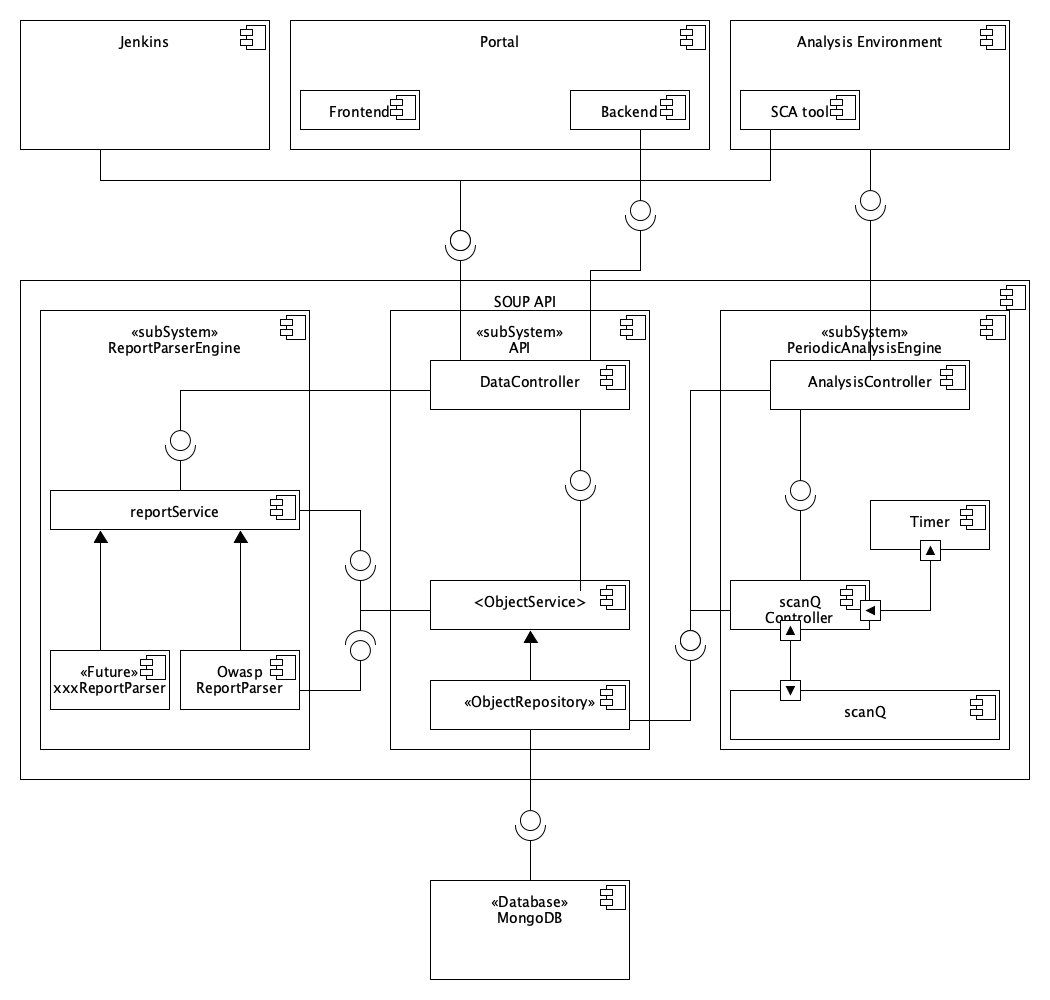
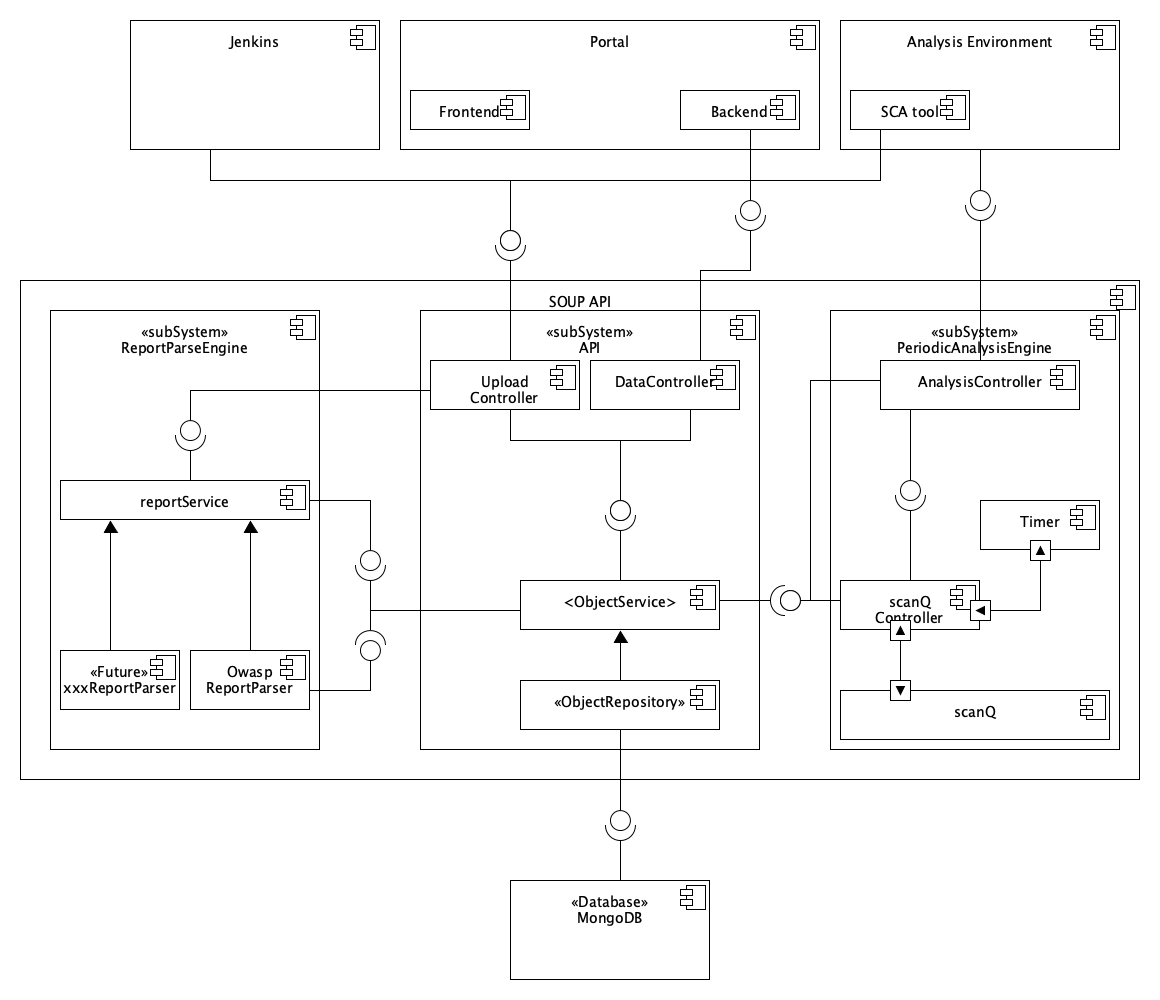
Architetuur nagekeken.....

diff --git a/Chapters/0302-Architectuur.tex b/Chapters/0302-Architectuur.tex
@@ -19,7 +19,7 @@ Het interne datamodel is opgebouwd op basis van de data die wordt verkregen van 
     \myfloatalign
     \includegraphics[width=12cm]{gfx/SOUPAPI-SOUPAPI DM}
     \caption{Intern Datamodel}
-    \label{fig:SOUP-SoupApiDm}
+    \label{fig:SOUP-SoupApiDm [CHECKEN]}
 \end{figure}
 
 Hieronder wordt iedere entiteit beschreven met daarin het attribuut, het datatype en de reden voor het opslaan van deze data, waarbij geldt dat voor iedere entititeit de volgende attributen standaard zijn \_id, \_createdAt en \_updatedAt opgeslagen.
@@ -136,9 +136,9 @@ Om op een later stadium een periodieke analyse te kunnen doen worden de dependen
 \end{tabular}
 
 \subsection{Portal Datamodel}\label{subsec:portal-datamodel}
-Om de mogelijkheid te hebben om een samenvatting te verkrijgen over kwetsbaarheden per project, per module moet er in de portal een aantal etiteiten worden toegevoegd. Het ontwerp dat hier getoont is is dan ook een toevoeging op het bestaande model en zal dan ook niet in het geheel getoont worden maar alleen de aangegrenzende entiteiten en de aanpassingen hierop.
+Om over de mogelijkheid te beschikken om een samenvatting te verkrijgen over kwetsbaarheden per project en per module moet er in de portal een aantal entiteiten worden toegevoegd. Het ontwerp dat hier getoont is een toevoeging op het bestaande model en wordt niet in zijn geheel getoont, maar enkel de aangegrenzende entiteiten en de aanpassingen hierop.
 
-Voor de functionaliteit van de SOUP module binnen de portal moeten er twee entiteiten worden toegevoegd namelijk $'$Module$'$ voor het weergeven van module data in projecten en $'$VulnerabilitySummary$'$ waarin de de waarde worden opgeslagen die weergegeven worden in de portal. De keuze om deze gegevens toe te voegen in het datamodel van de Portal is performance. Vaak is het alleen van belang om de samenvatting te kunnen lezen en op het moment dat er teveel kwetsbaarheden gevonden worden kan er naar de details in de SOUPAPI worden gekeken. Om deze reden is het niet nodig om alle beschikbare info over te sturen gezien het in het geval van npm vaak in de honderden dependencies kan leiden.
+Voor de functionaliteit van de SOUP module binnen de portal moeten er twee entiteiten worden toegevoegd namelijk $'$Module$'$ voor het weergeven van module data in projecten en $'$VulnerabilitySummary$'$ waarin de de waarden worden opgeslagen die weergegeven worden in de portal. De keuze om deze gegevens toe te voegen in het datamodel van de Portal is performance. Vaak is het alleen van belang om de samenvatting te kunnen lezen en op het moment dat er teveel kwetsbaarheden gevonden worden kan er naar de details in de SOUPAPI worden gekeken. Om deze reden is het niet nodig om alle beschikbare info over te sturen gezien het in het geval van NPM vaak tot honderden dependencies kan leiden.
 
 
 \begin{figure}[bth]
@@ -149,7 +149,7 @@ Voor de functionaliteit van de SOUP module binnen de portal moeten er twee entit
 \end{figure}
 
 \subsubsection{Project}\label{subsubsec:portalProject}
-Dit is een bestaande entiteit binnen het huidige portal project. Hierin worden de gegevens opgeslagen die te maken hebben met de projecten die binnen Eaglescience bestaan. Dit zijn zowel Draft(nieuwe), active, en archived projecten.
+Dit is een bestaande entiteit binnen het huidige portal project. Hierin worden de gegevens opgeslagen die te maken hebben met de projecten die binnen Eaglescience bestaan. Dit zijn zowel Draft (nieuwe), active, en archived projecten.
 
 \begin{tabular}{lll}
     \textbf{Attribuut} & \textbf{Datatype} & \textbf{Notitie}\\
@@ -157,63 +157,61 @@ Dit is een bestaande entiteit binnen het huidige portal project. Hierin worden d
     status & ProjectStatus & [enum] status van het project\\
     customers & String & projectklant\\
     path & Option[String] & projectPath\\
-    description & Option[String] & Bschrijving van het project\\
+    description & Option[String] & beschrijving van het project\\
     creationDate & Date & aanmaakdatum van het project \\
-    users & List[ProjectUser] & EagleScience medewerkers op het project \\ %TODO AAngepast
+    users & List[ProjectUser] & Eaglescience medewerkers op het project \\
     workType & Option[WorkTypeType] & welk werk is er belegt in het project   \\
-    ldapGroupDns & Option[List[String]] & Welke group heeft het project in LDAP  \\
+    ldapGroupDns & Option[List[String]] & welke group heeft het project in LDAP  \\
     modules & Option[List[String]] & referentie naar de aanwezige modules  \\
 \end{tabular}
 
 \subsubsection{Module}\label{subsubsec:portalModule}
-De module entiteit slaat de gegevens op voor een specifieke module. met een referentie naar een lijst van samenvatingen.
+De module entiteit slaat de gegevens op voor een specifieke module, met een referentie naar een lijst van samenvattingen.
 
 \begin{tabular}{lll}
     \textbf{Attribuut} & \textbf{Datatype} & \textbf{Notitie}\\
     moduleId & ModuleId > Long & uniek id \\
-    name & String & Referentie naar Project\\
+    name & String & referentie naar Project\\
     platform & String & gebruikte platform \\
     platformversion & String & versie van Node  \\
-    framework & version & String & versie van NPM  \\
-    frameworkVersion & String & versie van Version  \\
-    declairedDepAmnt & Int & Aantal opgegeven dependencies\\
-    totaalDepAmnt & Int & Totaal aantal dependencies.\\
-    vulSummaries & Option[List[VulSumId]]& referentie naar Samenvatting\\
+    framework & String &  gebruikte framework  \\
+    frameworkVersion & String & versie van framework  \\
+    declairedDepAmnt & Int & aantal opgegeven dependencies\\
+    totaalDepAmnt & Int & totaal aantal dependencies\\
+    vulSummaries & Option[List[VulSumId]]& referentie naar samenvatting\\
 \end{tabular}
 
-\subsubsection{VulnerabilitySummary}\label{subsubsec:portalVulSum}
-Iedere moment dat er een analyse is uitgevoerd wordt er hier een samenvating aan toegevoegd
+\subsubsection{Vulnerability Summary}\label{subsubsec:portalVulSum}
+Ieder moment dat er een analyse is uitgevoerd wordt er hier een samenvating aan toegevoegd, zodat er een up to date samenvatting beschikbaar is voor de portal evenals de geschiedenis hiervan.
 
 \begin{tabular}{lll}
     \textbf{Attribuut} & \textbf{Datatype} & \textbf{Notitie}\\
     vulSummaryId & VulSumId > Long & uniek Id\\
     timeStamp & DataTime & moment van opslaan van de samenvating\\
     details & String & referentie naar SOUPAPI model analyse\\
-    severAmount & Int & aantal severe kwetsbaarheden\\
+    severeAmount & Int & aantal Severe kwetsbaarheden\\
     highAmount & Int & aantal High kwetsbaarheden\\
     mediumAmount & Int & aantal Medium kwetsbaarheden\\
     lowAmount & Int & aantal Low kwetsbaarheden\\
 \end{tabular}
 
 \section{Algemene Architectuur}\label{sec:algemene-architectuur}
-%TODO checken of 8pt leesbaar is op print
 %TODO tekst beter structureren
 
-Voor het analyseren, beheren en weergeven van een SOUP-analyse heeft de applicatie een aantal componenten nodig die elk een eigen verantwoordelijkheid hebben in de taken die de applicatie uit moet voeren. Om de verantwoordelijkheden te splitsen is de applicatie opgesplitst in verschillende modulen. Voor sommige onderdelen geldt zelfs dat weer een onderdeel in van een andere applicatie binnen de Eaglescience Dev-stack. Voor een volledige compatibiliteit wordt de applicatie in Scala geschreven waarbij het PlayFramework wordt gebruikt. Voor Frontend delen en dan met name wordt er gebruik gemaakt van de huidige portal wat dicteert dat Angular gebruikt gaat worden voor de ontwikkeling hiervan.
-
-
+Voor het analyseren, beheren en weergeven van een SOUP-analyse heeft de applicatie een aantal componenten nodig die elk een eigen verantwoordelijkheid hebben in de taken die de applicatie uit moet voeren. Om deze verantwoordelijkheden te splitsen is de applicatie opgesplitst in verschillende modulen. Voor sommige onderdelen geldt zelfs dat het zelf een onderdeel is van een andere applicatie binnen de Eaglescience Dev-stack. Voor een volledige compatibiliteit wordt de applicatie in Scala geschreven waarbij het PlayFramework wordt gebruikt. Voor Frontend delen en dan met name in de portal wordt er Angular gebruikt, omdat dit hier al gebruikt wordt. Zoals te zien is in figuur~\ref{fig:SOUP-Components} zijn er verschillende componenten die samen werken om een analyse weer te geven voor de gebruiker.
 \begin{figure}[bth]
     \myfloatalign
     \includegraphics[width=10cm]{gfx/umlet/exports/ApplicationComponents}
     \caption{Componenten SOUP Analyse Systeem}
     \label{fig:SOUP-Components}
 \end{figure}
-Zoals te zien is in figuur~\ref{fig:SOUP-Components} zijn er verschillende componenten die samen werken om een analyse weer te geven voor de gebruiker. \textbf{Jenkins} is verantwoordelijk voor het up-to-date houden van de laatste wijzigingen in de sourde-code en het initiele rapport. Welke aangeboden wordt aan de \textbf{SOUP-API}. Waarin de  \textbf{ReportParserEngine} verantwoordelijk is voor het omzetten van de binnegekomen rapporten naar het interne datamodel en het opslaan van de dependency declaraties. De \textbf{PeriodicAnalysisEngine} is verantwoordelijk voor het doen van periodieke analyses met de dependency declaraties. Centraal in de SOUP-API staat de \textbf{API} welke verantwoordelijk is voor de dataverwerking van de data die door de beide engines gegenereerd wordt of benodigd is. De \textbf{Portal} is verantwoordelijk voor de user interface met de gebruiker en de SOUP-API. Voor het periodiek kunnen analyseren van de modules binnen projecten is er een \textbf{AnalysisEnvironment} welke zorg draagt voor het veilig kunnen analyseren van modules op basis van de laatst opgeslagen dependencyDeclaraties. Als \textbf{Database} is MongoDB gekozen omdat er wisselingen in content kan zitten in de uitslagen en om deze reden en flexibelere manier van opslaan vereist is.
 
-In de komende secties zal er dieper ingegaan worden op de verschillende componten waardoor er een completer beeld onstaat. Functionele ontwerpen zullen worden aangeboden in de hierop volgende hoofdstukken.
+\textbf{Jenkins} is verantwoordelijk voor het up-to-date houden van de laatste wijzigingen in de sourde-code en het initiele rapport, welke aangeboden wordt aan de \textbf{SOUP-API}. Hierin is de  \textbf{ReportParserEngine} verantwoordelijk voor het omzetten van de binnegekomen rapporten naar het interne datamodel. De \textbf{PeriodicAnalysisEngine} is verantwoordelijk voor het doen van periodieke analyses met de dependency declaraties. Centraal in de SOUP-API staat de \textbf{API} welke verantwoordelijk is voor de dataverwerking van de data die door de beide engines gegenereerd of benodigd is. Daarnaast is het verantwoordelijk voor het opslaan van de dependency declaraties. De \textbf{Portal} is verantwoordelijk voor de user interface met de gebruiker en de SOUP-API. Voor periodieke analyse van de modules binnen projecten is er een \textbf{AnalysisEnvironment} welke zorg draagt voor de veilige analyse van modules op basis van de laatst opgeslagen dependencyDeclaraties. Als \textbf{Database} is MongoDB gekozen omdat er wisselingen in content kan zitten van de uitslagen en dit een flexibelere manier van opslaan vereist is.
+
+In de komende secties zal er dieper ingegaan worden op de verschillende componten waardoor er een completer beeld hierover onstaat. Functionele ontwerpen zullen worden aangeboden in de hierop volgende hoofdstukken.
 
 \section{SOUP API}\label{sec:soup-api}
-De SOUP-API is een opzichzelf staand centraal deel van de applicatie dat verantwoordelijk is voor de verwerking van gegevens uit de SCA tooling en de portal. Als ook het regelen van de periodieke analyses om informatie up-to-date te houden van al eerder geanalyseerde projecten waar al een tijd geen wijzigingen op zijn geweest. Deze verantwoordelijkheden worden door de volgende componenten beheert
+De SOUP-API is een opzichzelf staand centraal deel van de applicatie welke verantwoordelijk is voor de verwerking van gegevens uit de SCA tooling en de portal. Hiernaast regelt het ook de periodieke analyses om informatie up-to-date te houden van al eerder geanalyseerde projecten waar al een tijd geen wijzigingen op zijn geweest. Deze verantwoordelijkheden worden door de volgende componenten beheert:
 
 \subsection{ReportParseEngine}\label{subsec:reportparseengine}
 De ReportParseEngine zorgt ervoor dat de binnenkomende datastroom vanuit de SCA tooling wordt verwerkt tot gegevens die in de SOAP-API gebruikt kan worden om inzichten in kwetsbaarheden te verkrijgen.
@@ -225,14 +223,14 @@ De ReportParseEngine zorgt ervoor dat de binnenkomende datastroom vanuit de SCA 
     \label{fig:SOUPAPIReportParserComps}
 \end{figure}
 
-De datastroom die binnenkomt bestaat uit een aantal zaken. Ten eerste is er het rapport dat uit de SCA tooling komt dat omgezet moet worden naar het intene datamodel. Daarnaast komen er vanuit het Jenkins process een aantal dependency declaraties mee die het mogelijk maken om in een later stadium de modules opnieuw te analyseren op kwetsbaarheden. Als laatst zal er metadata worden verstuurt die de API gebruikt om de analyses op de juiste plek op te slaan. Om de verantwoordelijkheden goed te verdelen zijn er een aantal services voorzien.
+De datastroom die binnen komt bestaat uit een aantal zaken. Ten eerste is er het rapport dat uit de SCA tooling komt dat omgezet moet worden naar het intene datamodel. Ten tweede zal er metadata worden verstuurt die de API gebruikt om de analyses op de juiste plek op te slaan. Om de verantwoordelijkheden goed te verdelen zijn er een aantal services voorzien:
 
-De \textbf{ParserService} is het centrale aanspreek punt van de ReportParserEngine en heeft als taak dat de juiste functionaliteit wordt aangesproken op het moment dat bepaalde vormen van instroom data wordt aangeboden. De ReportParserEngine moet de mogelijkheid hebben om in de toekomst met meer SCA tools op te kunnen gaan. De verwachting is dat niet iedere tool de zelfde opmaak van het rapport heeft en er om die redenen meerdere parsers moeten worden ontwikkeld in figuur ~\ref{fig:ReportParserComponents} staat deze aangegeven als $"$FutureParser$"$.
+De \textbf{ParserService} is het centrale aanspreek punt van de ReportParseEngine en heeft als taak dat de juiste functionaliteit wordt aangesproken op het moment dat bepaalde vormen van instroom data worden aangeboden. De ReportParseEngine moet de mogelijkheid hebben om in de toekomst met meer SCA tools om te kunnen gaan. De verwachting is dat niet iedere tool dezelfde opmaak van het rapport heeft en er om die redenen meerdere parsers moeten worden ontwikkeld in figuur~\ref{fig:SOUPAPIReportParserComps} staat deze aangegeven als $"$FutureParser$"$.
 
-De \textbf{OWASP Parser} maakt het mogelijk om het rapport dat gegegeven wordt door in het hiervoor beschreven onderzoek geselecteerde SCA tool om te zetten naar data in de database. Naast het plaatsen van de data in de interne database genereert het ook een samenvating die in database van de portal wordt geplaatst.
+De \textbf{OWASP Parser} maakt het mogelijk om het rapport dat gegenereerd wordt door de OWASP tool \footnote{tooling die is voortgekomen uit het hiervoor beschreven onderzoek} om te zetten naar data in de database. Naast het plaatsen van de data in de interne database genereert het ook een samenvatting die in database van de portal wordt geplaatst.
 
 \subsection{Periodic Analysis Engine}\label{subsec:periodicanalysisengine}
-De Periodic Analysis Engine is een module dat verantwoordelijk is voor het periodiek analyseren van modulen. Een schematische weergave is te zien in figuur~\ref{fig:SOUPAPIPeriodicAnalysisEngineComps}. Deze modulen worden in een lijst genaamd de \textbf{scanQ} welke door de \textbf{scanQservice} wordt beheerd. Deze service is verantwoordelijk voor alle mutaties op de lijst als ook het ophalen van data welke bekend is voor de module om op die manier de Analyses Environment de juiste gegevens te versturen om aan analyses container op te kunnen zetten. De algehele controle wordt uitgevoerd door de \textbf{AnalysisController} welke verantwoordelijk is voor het starten van de gewenste analyse.
+De Periodic Analysis Engine is een module die verantwoordelijk is voor het periodiek analyseren van modulen. Een schematische weergave is te zien in figuur~\ref{fig:SOUPAPIPeriodicAnalysisEngineComps}. Deze modulen worden in een lijst genaamd de \textbf{scanQ} opgeslagen welke door de \textbf{scanQservice} wordt beheerd. Deze service is verantwoordelijk voor alle mutaties op de lijst als ook voor het ophalen van data welke bekend is voor de module. Op die manier krijgt de Analyses Environment de juiste gegevens om een container op te kunnen zetten. De algehele controle wordt uitgevoerd door de \textbf{AnalysisController} welke verantwoordelijk is voor het starten van de gewenste analyse.
 
 \begin{figure}[bth]
     \myfloatalign
@@ -243,38 +241,37 @@ De Periodic Analysis Engine is een module dat verantwoordelijk is voor het perio
 
 \newpage %TODO: Tijdelijk voor placering van de afbeeldingen later testen of zonder ook goed uitziet.
 \subsection{API}\label{subsec:api2}
-De voornaamste verantwoordelijkheid van de API is de zorg dat de data die in de SOUP-API wordt gemuteerd in de interne database opgeslagen wordt. Zie figuur ~\ref{fig:SOUPAPI-API comps}. Als ook de data in de database beschikbaar te stellen voor services en modulen die hier afhankelijk voor zijn. De API is opgebouwd volgens een Controller, Service Repository architectuur waarbij de Controller verantwoordelijk is voor het beschikbaar stellen van services op verschillende REST-endpoints. De Service verantwoordelijk is voor de business logic en mutatie van de data. Welke vervolgende door de Repository wordt weggeschreven naar de database.
+De voornaamste verantwoordelijkheid van de API is ervoor zorgdragen dat de data die in de SOUP-API wordt gemuteerd in de interne database wordt opgeslagen, en daarnaast deze data beschikbaar te stellen voor services en modulen die hier afhankelijk van zijn. Zie figuur ~\ref{fig:SOUPAPI-API comps}. De API is opgebouwd volgens een Controller, Service, Repository architectuur waarbij de Controller verantwoordelijk is voor het beschikbaar stellen van services op verschillende REST-endpoints. De Service zelf is verantwoordelijk voor de business logica en mutatie van de data, welke vervolgens door de Repository wordt weggeschreven naar de database.
 \begin{figure}[bth]
     \myfloatalign
-    \includegraphics[width=10cm]{gfx/umlet/exports/API-ComponentsDiagram}
-    \caption{Componenten API binndne de SOUPAPI}
+    \includegraphics[width=12cm]{gfx/umlet/exports/API-ComponentsDiagram}
+    \caption{Componenten API binnen de SOUP-API}
     \label{fig:SOUPAPI-API comps}
 \end{figure}
 
-Naast services en een datacontrolle die verantwoordelijk is voor de mutatie van alle data. Is er ook een UploadCOntroller die samen met een reportService verantwoordelijk is voor het aansturen van de ReportParsingEngine. De reportService verwerkt ook de dependencyFiles die vanuit Jenkins wordt verstuurt.
+Naast services en een datacontroller die verantwoordelijk is voor de mutatie van alle data, is er ook een UploadController die samen met een reportService verantwoordelijk is voor het aansturen van de ReportParseEngine. De reportService verwerkt ook de dependencyFiles die vanuit Jenkins worden verstuurt.
 
 \section{Software Compsition Analysis in Jenkins}\label{sec:jenkins}
-De bestaande jenkins omgeving is de primaire bron voor nieuwe informatie uit projecten. Het aangewezen moment in de ontwikkeling is het moment dat er een acceptatie of productie build gedaan wordt, dit omdat op dit moment de dependencies relatief vast staan ten opzichte eerdere fasen in de ontwikkeling. Een andere reden is dat de development/ personal builds veel frequenter voorkomen en door de hieronder besproken toevoegingen de performance van deze builds achteruit kan gaan. In figuur ~\ref{fig:JenkinsSequece}
+De bestaande Jenkins omgeving is de primaire bron voor nieuwe informatie uit projecten. Het aangewezen moment in de ontwikkelingsCyclus voor het uitvoeren van een analyses is wanneer er een acceptatie of productie build wordt uitgevoerd. De eerste reden hiervoor is omdat op dit moment de dependencies relatief vast staan ten opzichte van eerdere fasen in de ontwikkeling. De tweede reden is dat de development/ personal builds veel frequenter voorkomen en dat de performance van deze builds door de hieronder besproken toevoegingen achteruit kan gaan. In figuur ~\ref{fig:JenkinsSequece} is deze sequentie weergegeven.
 
 
 \begin{figure}[bth]
     \myfloatalign
-    \includegraphics[width=10cm]{gfx/umlet/exports/jenkinsBuildSequence}
+    \includegraphics[width=15cm]{gfx/umlet/exports/jenkinsBuildSequence}
     \caption{Jenkins Buildsequence: alleen onderdelen relavant voor SOUP-API worden getoont}
     \label{fig:JenkinsSequece}
 \end{figure}
 
-De pipeline binnen jenkins kent voor de SOUP API twee belangrijke momenten. In de \textbf{build/test fase} waarin de module wordt gebouwd en vervolgens getest zullen er twee toevoegingen gedaan moeten worden. Als eerst moet er meta data worden gepubliceerd op het filesysteem zodat er in een later stadium bekend is welke module, jenkins buildnummer en welke commit geanalyseerd wordt. Dit waarborgt de traceability tussen jenkins, gitlab en de SOUPAPI. Later moet in die zelfde stap de SCA tool worden uitgevoerd om de module te analyseren op kwetsbaarheden. Het result van deze analyse wordt vervolgens gepubliceerd op de filesystem.
+De pipeline binnen Jenkins kent voor de SOUP-API twee belangrijke momenten. In de \textbf{build/test fase} waarin de module wordt gebouwd en vervolgens getest zullen er twee toevoegingen gedaan moeten worden. Als eerst moet er meta data worden gepubliceerd op het filesysteem zodat er in een later stadium bekend is welke module, jenkins buildnummer en githash geanalyseerd wordt. Dit waarborgt de traceability tussen Jenkins, gitlab en de SOUPAPI. Later moet in die zelfde stap de SCA tool worden uitgevoerd om de module te analyseren op kwetsbaarheden. Het resultaat van deze analyse wordt vervolgens gepubliceerd op het filesysteem.
 
-Op het moment dat de \textbf{deploy} fase gelukt is. Kan er en upload plaatsvinden naar de SOUP API met daarin: "report.json, meta.json" en dependency declaraties als (build.sbt/dependencies.scala of de package-lock.json)
-Als de upload gelukt dan zal jenkins de build vrij geven als geslaagd mocht er onverhoopt iets niet lukken in de upload zal dit te zien zijn in de logs van Jenkins.
+Op het moment dat de \textbf{deploy} fase gelukt is kan er een upload plaatsvinden naar de SOUP API met daarin: "report.json, meta.json" en dependency declaraties als (build.sbt/dependencies.scala of de package-lock.json)
+Als de upload lukt dan zal Jenkins de build vrijgeven als geslaagd. Mocht er onverhoopt iets niet lukken in de upload zal dit te zien zijn in de logs van Jenkins.
 
-\section{Portal}\label{sec:arch-portal} De portal is een inhouse applicatie welke gebruikt wordt voor administratieve zaken binnen het bedrijf. de wens is om hier functionaliteiten aan toe te voegen die bedrijfsbreed zijn en daarmee dus project oversteigend zijn. Voor deze applicatie dient er een module te worden toeegevoegd die fungeert als een interface waarin informatie over de bekende kwetsbaarheden te vinden is. maar ook instellingen kunnen worden. Er bestaat nu een module dat projects heet waarin verschillende details van het project in opgeslagen worden. samenvatingen van informatie over kwetsbaarheden kunnen hieraan worden toegevoegd.
-Daarnaast zal er een nieuwe module moeten worden ontwikkeld waarin de details van de analyses zijn te vinden. Deze module moet samen werken met de SOUP-API API om de gewenste gegevens te kunnen weergeven. Ook de samenwerking tussen de portalmodulen Projects en SOUP api er zijn om vanuit een geselecteerd project de details in te kunnen zien.
-
+\section{Portal}\label{sec:arch-portal} De portal is een inhouse applicatie welke gebruikt wordt voor administratieve zaken binnen het bedrijf. De wens is om hier functionaliteiten aan toe te voegen die bedrijfsbreed zijn en daarmee dus project oversteigend. Voor deze applicatie dient er een module te worden toeegevoegd die fungeert als een interface waarin informatie over de bekende kwetsbaarheden te vinden is, maar ook instellingen omtrend de SOUP-API kunnen worden aangepast. Er bestaat nu een module dat projects heet waarin verschillende details van het project in opgeslagen worden. Samenvatingen van informatie over kwetsbaarheden kunnen hieraan worden toegevoegd.
+Daarnaast zal er een nieuwe module moeten worden ontwikkeld waarin de details van de analyses kunnen worden gevonden. Deze module moet samenwerken met de SOUP-API API om de gewenste gegevens te kunnen weergeven.
 
 \section{Analysis Environment}\label{sec:analysis-environment}
-Deze omgeving moet het mogelijk maken om vanuit de SOUP API een analyse uit te voeren op modulen. waarbij er een docker container wordt gestart een analyse uitgevoerd wordt en vervolgens de container wordt vernietigd. de voornaamste reden is dat er door de opzet van npm/node en sbt/scala veel combinatie kunnen ontstaan die ervoor kunnen zorgen dat er de versies die gebruikt worden veranderen. Om deze reden moet de analyse omgevingen een nagenoeg exacte kopie zijn van de omgeving op productie. Naast de grote variatiet in omgevingen is er ook de mogelijkheid dat er ergens in een declaratie van dependencies code staat dat uitgevoerd kan worden middels install scripts. om ervoor te zorgen dat deze geen blijvend effect hebben op het systeem wordt er gekozen voor een docker systeem wat iedere keer opnieuw kan worden geinitiealiseerd.
+Deze omgeving moet het mogelijk maken om vanuit de SOUP-API een analyse uit te voeren op modulen, waarbij er eerst een docker container wordt gestart, hier vervolgens een analyse in wordt uitgevoerd en gepubliceers waarna de container wordt vernietigd. De voornaamste reden voor het uitvoeren van analyses op deze manier is dat er hierdoor de analyse container exact dezelfde runtime versies heeft als die op de productie. Naast de grote variatie in omgevingen is er ook de mogelijkheid dat er ergens in een declaratie van dependencies code staat die uitgevoerd kan worden middels install scripts. Om ervoor te zorgen dat deze geen blijvend effect hebben op het systeem wordt er gekozen voor een docker systeem wat iedere keer opnieuw kan worden geinitialiseerd.
 
 \section{Deployment}\label{sec:deployment}
 
@@ -286,5 +283,5 @@ Deze omgeving moet het mogelijk maken om vanuit de SOUP API een analyse uit te v
     \label{fig:deployment}
 \end{figure}
 
-De portal draait lokaal binnen Eaglscience in een kubernetes omgeving. De frontend is geschreven in Angular 13. waarbij er tegen een backend wordt gecommuniceerd welke in Scala 2.13 is geschreven met PlayFramework. De SOUP-API is een opzich zelfstaand component binnen de gehele applicatie en zal ook worden geschreven in Scala met playFramework. De SOUP-API zal worden ondergebracht in een dockercontainer welk beschikbaar is voor de portal, jenkins en de database. De database is een mongoDB database en zal ook moeten worden voorzien. Het maakt voor de werking niet veel uit of dit een lokale Database of een instantie in de cloud is.
+De portal draait lokaal binnen Eaglscience in een docker omgeving. De frontend is geschreven in Angular 13, waarbij er tegen een backend wordt gecommuniceerd welke in Scala 2.13 is geschreven met PlayFramework. De SOUP-API is een opzichzelfstaand component binnen de gehele applicatie en zal ook worden geschreven in Scala met PlayFramework. De SOUP-API zal worden ondergebracht in een dockercontainer welk beschikbaar is voor de portal, Jenkins en de database. De database is een mongoDB database en zal ook moeten worden ingericht. Het maakt voor de werking niet veel uit of dit een lokale database of een instantie in de cloud is.
 

diff --git a/main.tex b/main.tex
@@ -93,22 +93,22 @@
 %----------------------------------------------------------------------------------------
 
 %TODO: Gehele document nakijken op de quotes: "
-%\part{Opdracht}\label{prt:opdracht}
-%\include{Chapters/0101-Opdrachtgever}
-%\include{Chapters/0102-Opdracht}
-%
-%\part{Onderzoek}\label{prt:Onderzoek}
-%\include{Chapters/0201-OnderzoeksPlan}
-%\include{Chapters/0202-ExterneBbibliothekenenGevaar}
-%\include{Chapters/0203-OnderzoekSOUPAnalyse}
+\part{Opdracht}\label{prt:opdracht}
+\include{Chapters/0101-Opdrachtgever}
+\include{Chapters/0102-Opdracht}
+
+\part{Onderzoek}\label{prt:Onderzoek}
+\include{Chapters/0201-OnderzoeksPlan}
+\include{Chapters/0202-ExterneBbibliothekenenGevaar}
+\include{Chapters/0203-OnderzoekSOUPAnalyse}
 
 \part{Implementatie}\label{prt:implementatie}
 \include{Chapters/0301-inleiding}
 \include{Chapters/0302-Architectuur}
-%\include{Chapters/0303-functioneelOntwerpSOUPAPI}
-%\include{Chapters/0304-functioneelOntwerpScanOmgeving}
-%\include{Chapters/0305-functioneelOntwerpJenkins}
-%\include{Chapters/0306-functioneelOntwerpPortal}
+\include{Chapters/0303-functioneelOntwerpSOUPAPI}
+\include{Chapters/0304-functioneelOntwerpScanOmgeving}
+\include{Chapters/0305-functioneelOntwerpJenkins}
+\include{Chapters/0306-functioneelOntwerpPortal}
 \include{Chapters/0307-FutureWork}
 
 

diff --git a/Chapters/0303-functioneelOntwerpSOUPAPI.tex b/Chapters/0303-functioneelOntwerpSOUPAPI.tex
@@ -2,8 +2,9 @@
 De SOUP API is de centrale module voor het systeem dat verantwoordelijk is voor het periodiek scannen van de projecten, het parsen van de rapporten die uit de analyses komt en het beschikbaar maken van de data die in de datbase is opgeslagen. In dit hoofdstuk wordt functioneel ingegaan op de werking van deze module en de drie sub modulen die ieders een deel van deze taken op zich neemt.
 
 
-
 \section{API}\label{sec:api}
+Centraal in de SOUP-API staat de API welke verantwoordelijkheid heeft om de data die door de beide Engines ,beschreven in het hoofdstuk Architectuur, worden verwerkt in goed banen te leiden. Om die reden zijn er twee controllers aangewezen die ieders
+
 Om de data die in het datamodel (zie figuur~\ref{fig:SOUP-SoupApiDm} in het vorige hoofdstuk) gedefineerd is te bedienen is er gekozen om een generieke repository aan te maken die voor iedere service de basis bewerkingen verschaft. De business logica wordt gefineerd in de verschillende services die op zijn beurt weer aangeroepen worden door de overkoepelende datascontroller die voor de portal een mogelijkheid geeft om data in te zien en eventueel te bewerken.
 \begin{figure}[bth]
     \myfloatalign
